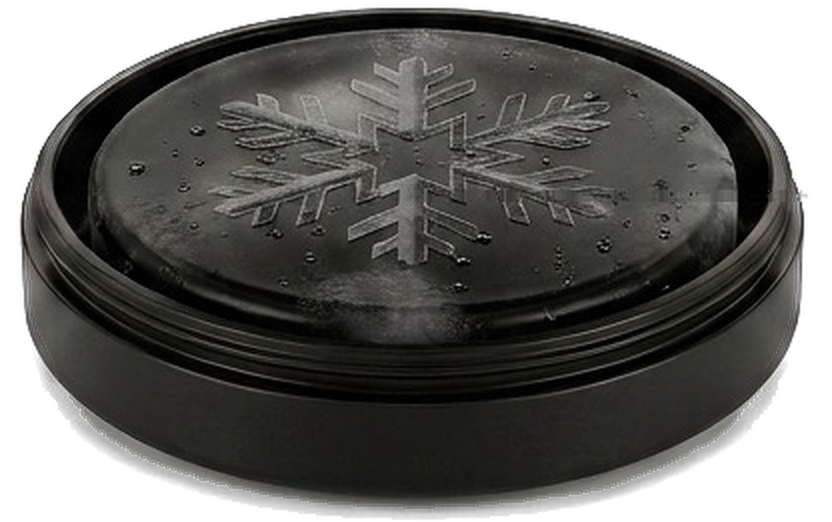
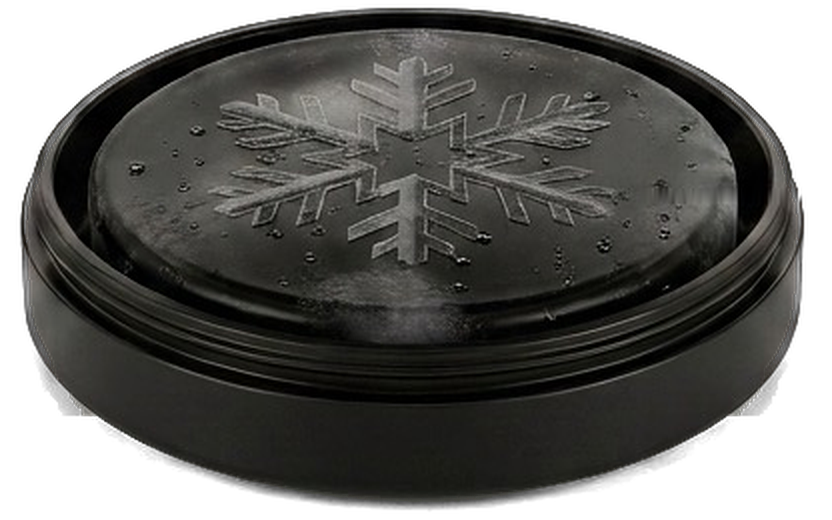
Recut again: the base's blurred foot fades out, the line strips are blended
The render sits in a soft contact shadow, so the last rows of the base are
faded by brightness instead of kept solid. Where the old leader lines crossed
each rim, the strip is now blended vertically from the clean rows around it.

diff --git a/src/lib/stage.ts b/src/lib/stage.ts
@@ -2,21 +2,21 @@
  * Geometry of the exploded tin on the home page.
  *
  * The three pieces were cut out of one render and are placed back on a
- * shared 416 x 706 canvas, so a label beside the stage can be put level with
+ * shared 416 x 702 canvas, so a label beside the stage can be put level with
  * its piece at any width by using the same percentages. This lives outside
  * the client component that draws the stage because the hero, a server
  * component, needs the numbers as plain values.
  */
-export const STAGE_ASPECT = "416/706";
+export const STAGE_ASPECT = "416/702";
 
 export const LAYERS = [
   { src: "/layer-lid.png", w: 832, h: 382, top: 0.14, lift: 26, float: 10, dur: 7.5 },
-  { src: "/layer-chamber.png", w: 832, h: 500, top: 27.2, lift: 0, float: 6, dur: 8.5 },
-  { src: "/layer-base.png", w: 832, h: 522, top: 62.61, lift: -26, float: 4, dur: 9.5 },
+  { src: "/layer-chamber.png", w: 832, h: 500, top: 27.35, lift: 0, float: 6, dur: 8.5 },
+  { src: "/layer-base.png", w: 832, h: 520, top: 62.96, lift: -26, float: 4, dur: 9.5 },
 ] as const;
 
 /** Where each piece's rim is widest, as a percentage of the canvas height. */
-export const LAYER_ANCHORS = [11, 42.9, 77.8] as const;
+export const LAYER_ANCHORS = [11.1, 43.2, 78.2] as const;
 
 export const STAGE_ALT =
   "The Ice Tin taken apart: the engraved lid on top, the pouch chamber with its perforated floor in the middle, and the ice pack seated in the base";

diff --git a/src/components/product-stage.tsx b/src/components/product-stage.tsx
@@ -45,7 +45,7 @@ export const ProductStage = memo(function ProductStage({
     >
       <motion.div
         style={{ x, y }}
-        className="relative aspect-[416/706] w-full"
+        className="relative aspect-[416/702] w-full"
         role="img"
         aria-label={STAGE_ALT}
       >
